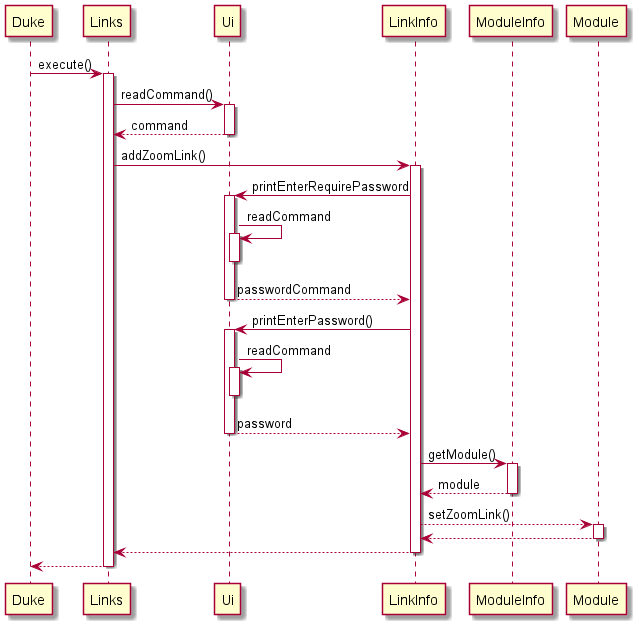
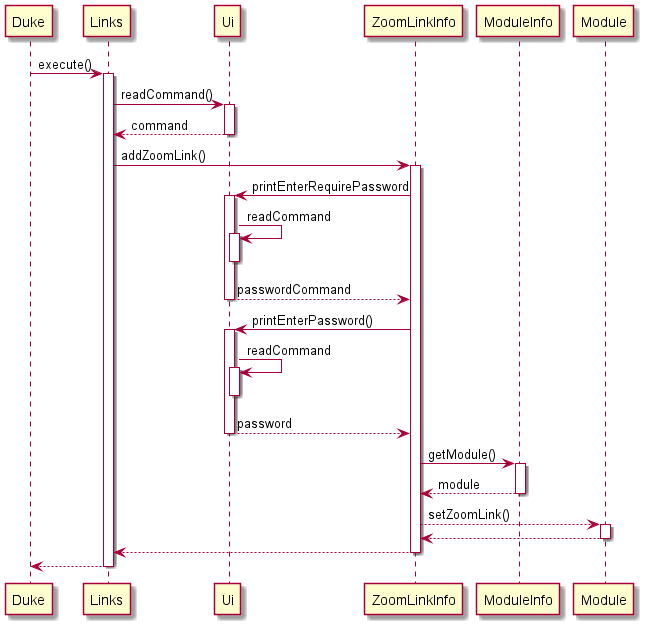
add explanation zoom links part for DG

diff --git a/docs/DeveloperGuide.md b/docs/DeveloperGuide.md
@@ -6,68 +6,71 @@
 
 [2. Design](#2-design)  
 &nbsp;&nbsp;&nbsp;&nbsp;[2.1 Architecture](#21-architecture)  
-&nbsp;&nbsp;&nbsp;&nbsp;[2.2 UI Class](#22-ui-class)  
+&nbsp;&nbsp;&nbsp;&nbsp;[2.2 UI Class](#22-ui-class)
 
 [3. Implementation](#3-implementation)  
-&nbsp;&nbsp;&nbsp;&nbsp;[3.08 Add New Review](#308-add-new-review)  
-&nbsp;&nbsp;&nbsp;&nbsp;[3.09 Delete a Review](#309-delete-a-review)  
-&nbsp;&nbsp;&nbsp;&nbsp;[3.10 Add New Task](#310-add-new-task)  
-&nbsp;&nbsp;&nbsp;&nbsp;[3.11 Delete a Task](#311-delete-a-task)  
-&nbsp;&nbsp;&nbsp;&nbsp;[3.12 Add Zoom Link](#312-add-zoom-link)  
-&nbsp;&nbsp;&nbsp;&nbsp;[3.13 Add Module Components](#313-add-module-components)
-
-
-
+&nbsp;&nbsp;&nbsp;&nbsp;[3.01 Add New Review](#301-add-new-review)  
+&nbsp;&nbsp;&nbsp;&nbsp;[3.02 Delete a Review](#302-delete-a-review)  
+&nbsp;&nbsp;&nbsp;&nbsp;[3.03 Add New Task](#303-add-new-task)  
+&nbsp;&nbsp;&nbsp;&nbsp;[3.04 Delete a Task](#304-delete-a-task)  
+&nbsp;&nbsp;&nbsp;&nbsp;[3.05 Add Zoom Link](#305-add-zoom-link)  
+&nbsp;&nbsp;&nbsp;&nbsp;[3.06 Add Module Components](#306-add-module-components)
 
 [4. Product scope](#4-product-scope)    
 &nbsp;&nbsp;&nbsp;&nbsp;[4.1 Target user profile](#41-target-user-profile)   
-&nbsp;&nbsp;&nbsp;&nbsp;[4.2 Value proposition](#42-value-proposition)  
+&nbsp;&nbsp;&nbsp;&nbsp;[4.2 Value proposition](#42-value-proposition)
 
 [5. User Stories](#5-user-stories)
 
 [6. Non-Functional Requirements](#6-non-functional-requirements)
 
-[7. Glossary](#7-glossary)  
+[7. Glossary](#7-glossary)
 
-[8. Instructions for manual testing](#8-instructions-for-manual-testing)  
+[8. Instructions for manual testing](#8-instructions-for-manual-testing)
 
 ---
+
 ## 1. Introduction
 
-UniTracker is a one-stop application for NUS students to keep track of their work in school. It
-comprises 4 key features (ModuleInfo, SU Calculator/Simulator, TaskManager, Links) that helps to organise all information they
-need in one place. Users are allowed to add and edit module information, tasks, zoom links to suit
-their needs. This product is optimal for students who prefer Command Line Interface (CLI) over
-Graphical User Interface (GUI).
+- UniTracker is a one-stop application for NUS students to keep track of their work in school.
+
+- It comprises 4 key features (ModuleInfo, SU Calculator/Simulator, TaskManager, Links) that helps
+  to organise all information they need in one place.
+
+- Users are allowed to add and edit module information, tasks, zoom links to suit their needs.
+
+- This product is optimal for students who prefer Command Line Interface (CLI) over Graphical User
+  Interface (GUI).
+
 ---
+
 ## 2. Design
-
-{Describe the design and implementation of the product. Use UML diagrams and short code snippets where applicable.}
-
 
 ### 2.1 Architecture
 
-The `Duke` class contains the main method of our application. 
+The `Duke` class contains the main method of our application.
+
 - At the start of the application, it initializes all the classes in sequence.
 
 We have 5 main classes for our key features.
+
 - `ModuleInfo`: contains methods for our module information features.
 - `HelpGraduation`: contains methods for our SU calculator/simulator.
 - `TaskManager`: contains methods for our task management features.
 - `Links`: contains methods for our links features.
 - `Storage`: Write data to, and loads data to hard disk
-  
-![Diagram](diagrams/MainArchitecture.png)
 
+![Diagram](diagrams/MainArchitecture.png)
 
 ### 2.2 UI Class
 
 This class handles the interactions with the user and contains the methods for system output.
 
 ---
+
 ## 3. Implementation
 
-### 3.08 Add New Review
+### 3.01 Add New Review
 
 This feature allows user to `add a review` for any of the modules they have taken.
 
@@ -80,6 +83,7 @@ E.g. Input:
 `/end`
 
 Output:
+
 ```
 Woohoo~ Review added:  
 CS2113T is very fun:) I have learnt so many important concepts.
@@ -90,19 +94,20 @@ Overall 10/10 :)
 Returning to module information menu...
   ```
 
-A general explanation of how this feature works:  
+A general explanation of how this feature works:
 
-**Problem**: When the user wants to review a module, 
-he/she should be able to type ___multiple lines of input___, as reviews are generally long and detailed.   
+**Problem**: When the user wants to review a module, he/she should be able to type ___multiple lines
+of input___, as reviews are generally long and detailed.
 
-**Solution**: A `while` loop is used to take in multiple lines of input until the input contains the `/end` symbol. 
-Anything typed after this `/end` symbol will be erased.
+**Solution**: A `while` loop is used to take in multiple lines of input until the input contains
+the `/end` symbol. Anything typed after this `/end` symbol will be erased.
 
-**When overwriting this review with a new review**: The old review will be printed for user reference.
-The user will also be alerted that this action will delete his/her old review via a log. 
+**When overwriting this review with a new review**: The old review will be printed for user
+reference. The user will also be alerted that this action will delete his/her old review via a log.
 The log is printed out as a warning.
 
-E.g. 
+E.g.
+
 ```
 You already have added a review:
 
@@ -117,19 +122,24 @@ Mar 23, 2021 9:52:21 PM seedu.duke.ModuleInfo printAlreadyAddedReviewMessage
 WARNING: You will delete your old review. This cannot be undone.
 ```
 
-### 3.09 Delete a Review
+### 3.02 Delete a Review
+
 This feature allows user to delete a review from the `module`.
 
-A general explanation of how this feature works:  
+A general explanation of how this feature works:
 
-Deleting a review would __reset__ the `Review` *String* attribute of a `module` to a default value of:  
+Deleting a review would __reset__ the `Review` *String* attribute of a `module` to a default value
+of:  
 `"You have not reviewed this module yet."`
 
-### 3.10 Add New Task
+### 3.03 Add New Task
 
-This feature allows the user to add tasks of type `task`, `assignment`, `midterm`, `final exam` to a task list.
+This feature allows the user to add tasks of type `task`, `assignment`, `midterm`, `final exam` to a
+task list.
 
-All task types (except `Task`, which contains arguments 1, 2 and 5) contain 5 arguments upon creation:
+All task types (except `Task`, which contains arguments 1, 2 and 5) contain 5 arguments upon
+creation:
+
 1) `Module Code` <br> Example: `CS2113T`
 2) `Task Description` <br> Example: `Finish v2.0`
 3) `Date` <br> Example: `2021-03-21`
@@ -138,77 +148,131 @@ All task types (except `Task`, which contains arguments 1, 2 and 5) contain 5 ar
 
 A general explanation of how this feature works:
 
-When the user calls this feature, the application will prompt them to input the arguments required for task creation.
-This new task will then be stored into an `ArrayList` for future reference. The user has to input a valid format for the __date__ and __time__ field (refer to section 3.3.1 of User Guide or the example above),
-and our application will convert it to a more readable format for the user. Using the example above,
+When the user calls this feature, the application will prompt them to input the arguments required
+for task creation. This new task will then be stored into an `ArrayList` for future reference. The
+user has to input a valid format for the __date__ and __time__ field (refer to section 3.3.1 of User
+Guide or the example above), and our application will convert it to a more readable format for the
+user. Using the example above,
+
 - `2021-03-21` will be outputted as `Mar 21 2021`
 - `23:59` will be outputted as `11:59 PM`
 
-The user input for `Message` (argument 5 above) will be printed out when the user deleted the task, signalling completion.
+The user input for `Message` (argument 5 above) will be printed out when the user deleted the task,
+signalling completion.
 
-### 3.11 Delete a Task
+### 3.04 Delete a Task
 
-This feature allows the user to delete a task of type `task`, `assignment`, `midterm`, `final exam` from a task list.
+This feature allows the user to delete a task of type `task`, `assignment`, `midterm`, `final exam`
+from a task list.
 
 A general explanation of how this feature works:
 
-When the user calls this feature, the application will prompt them to choose the __task type__ (`task`, `assignment`, `midterm`, `final exam`) of the task they want to delete.
-All existing tasks in the `ArrayList` for the task type they chose will then be printed out, and the user has to input the index of the task they want to delete.
-The task they select will then be deleted from the `ArrayList`. 
+When the user calls this feature, the application will prompt them to choose the __task
+type__ (`task`, `assignment`, `midterm`, `final exam`) of the task they want to delete. All existing
+tasks in the `ArrayList` for the task type they chose will then be printed out, and the user has to
+input the index of the task they want to delete. The task they select will then be deleted from
+the `ArrayList`.
 
-The `Message` that the user inputted upon creation of this particular task will then be printed out. 
+The `Message` that the user inputted upon creation of this particular task will then be printed out.
 
-### 3.12 Add Zoom Link 
+### 3.05 Add Zoom Link
+
 Given below is the sequence diagram for the feature:  
-![Diagram](diagrams/addZoomLink.png)  
+![Diagram](diagrams/addZoomLink.png)
 
-### 3.13 Add Module Components
-This feature allows user to add user-defined module components and its related weightage for an existing module.
+A general 4-step explanation of how this feature works is shown below:
+
+Step 1. The Links#execute() method is calling the Ui#readCommand() method which in turn, returns the
+command containing the Zoom Link and Module Code.
+
+Step 2. The ZoomLinkInfo#addZoomLink() method calls other methods in the Ui class to determine
+whether a password is required for the Zoom meeting.
+
+Step 3. The ZoomLinkInfo#addZoomLink() method then calls ModuleInfo#getModule() in order to
+retrieve the module object which is stored in the ModuleInfo class. 
+
+- If no object is found(i.e module
+does not exist), an exception is thrown, and a new module object is initialised. 
+
+````
+try {
+    Module moduleInfo = ModuleInfo.getModule(linkDescription);
+    moduleInfo.setZoomLink(linkDescription);
+} catch (NullPointerException e) {
+    Module module = new Module(moduleCode, "no description");
+    ModuleInfo.modules.add(module);
+    module.setZoomLink(linkDescription);
+}
+````
+
+Code snippet to illustrate Step 3.
+
+
+Step 4. Module#setZoomLink then sets the `zoomLink` attribute of the module object to the zoom link that was entered.
+
+### 3.06 Add Module Components
+
+This feature allows user to add user-defined module components and its related weightage for an
+existing module.
 
 ![Diagram](diagrams/addComponent.png)  
 How the feature works:  
-The feature is facilitated by the `Component` class and a call to `addComponent()` is performed upon expected user input to add a new component to a module.  
+The feature is facilitated by the `Component` class and a call to `addComponent()` is performed upon
+expected user input to add a new component to a module.
 
-First, a call to `Ui` is performed to find out what module* the user wishes to add a component (and its weightage).
-Secondly, a `for` loop is run to find whether the module entered by the user is stored in the system.  
-Here, there are two possible routes:  
-- If the module is present, a call to `Ui` is performed to find out the component name and the associated weightage for that component.
-- If the module is not present, the call to `addComponent()` returns to `ModuleInfo` class (main class for module-related commands).
+First, a call to `Ui` is performed to find out what module* the user wishes to add a component (and
+its weightage). Secondly, a `for` loop is run to find whether the module entered by the user is
+stored in the system.  
+Here, there are two possible routes:
 
-Assuming the first route is well executed,
-the component (and its weightage) is stored in a Hashtable format in the `Module` object specified by the user previously*.
+- If the module is present, a call to `Ui` is performed to find out the component name and the
+  associated weightage for that component.
+- If the module is not present, the call to `addComponent()` returns to `ModuleInfo` class (main
+  class for module-related commands).
+
+Assuming the first route is well executed, the component (and its weightage) is stored in a
+Hashtable format in the `Module` object specified by the user previously*.
 
 #### View Module Components
+
 How the feature works:  
 The feature is an extension of the `Component` feature.
 
 It allows user to view all the module components under a module specified by the user input.
 
-Improvement: the total weightage (in whole numbers) of the module should not exceed 100. 
+Improvement: the total weightage (in whole numbers) of the module should not exceed 100.
 
 
 ---
+
 ## 4. Product scope
 
 ---
+
 ### 4.1 Target user profile
 
-This product is for NUS students to help them to keep track/add/edit module information, and deadlines. This product is for users who prefer CLI over GUI.
+This product is for NUS students to help them to keep track/add/edit module information, and
+deadlines. This product is for users who prefer CLI over GUI.
 
 
 ---
+
 ### 4.2 Value proposition
 
-Our product is user-specific as it allows users to customize and personalize their own module information and deadlines to suit their needs. 
-Our product allows users to organize their own daily schedules and keep track of their deadlines all on one platform.
+Our product is user-specific as it allows users to customize and personalize their own module
+information and deadlines to suit their needs. Our product allows users to organize their own daily
+schedules and keep track of their deadlines all on one platform.
 
-Information and materials of our various modules are on varying platforms; some could be on Luminus, or the professor's personal websites, or sent to us via email, or on Wiki.nus.
-We want to solve the issue of being disorganized and confused over not knowing or remembering where certain information is. 
+Information and materials of our various modules are on varying platforms; some could be on Luminus,
+or the professor's personal websites, or sent to us via email, or on Wiki.nus. We want to solve the
+issue of being disorganized and confused over not knowing or remembering where certain information
+is.
 
-By using UniTracker, users will be able to store all necessary details on one platform 
-so that they can keep track of commonly accessed information while keeping track of the tasks they have.
+By using UniTracker, users will be able to store all necessary details on one platform so that they
+can keep track of commonly accessed information while keeping track of the tasks they have.
 
 ---
+
 ## 5. User Stories
 
 *[This section will be completed in the future.]* <br>
@@ -219,19 +283,24 @@ so that they can keep track of commonly accessed information while keeping track
 |v2.0|user|find a to-do item by name|locate a to-do without having to go through the entire list|
 
 ---
+
 ## 6. Non-Functional Requirements
 
 *[This section will be completed in the future.]* <br>
 {Give non-functional requirements}
 
 ---
+
 ## 7. Glossary
 
 *[This section will be completed in the future.]* <br>
+
 * *glossary item* - Definition
 
 ---
+
 ## 8. Instructions for manual testing
 
 *[This section will be completed in the future.]* <br>
-{Give instructions on how to do a manual product testing e.g., how to load sample data to be used for testing}
+{Give instructions on how to do a manual product testing e.g., how to load sample data to be used
+for testing}
